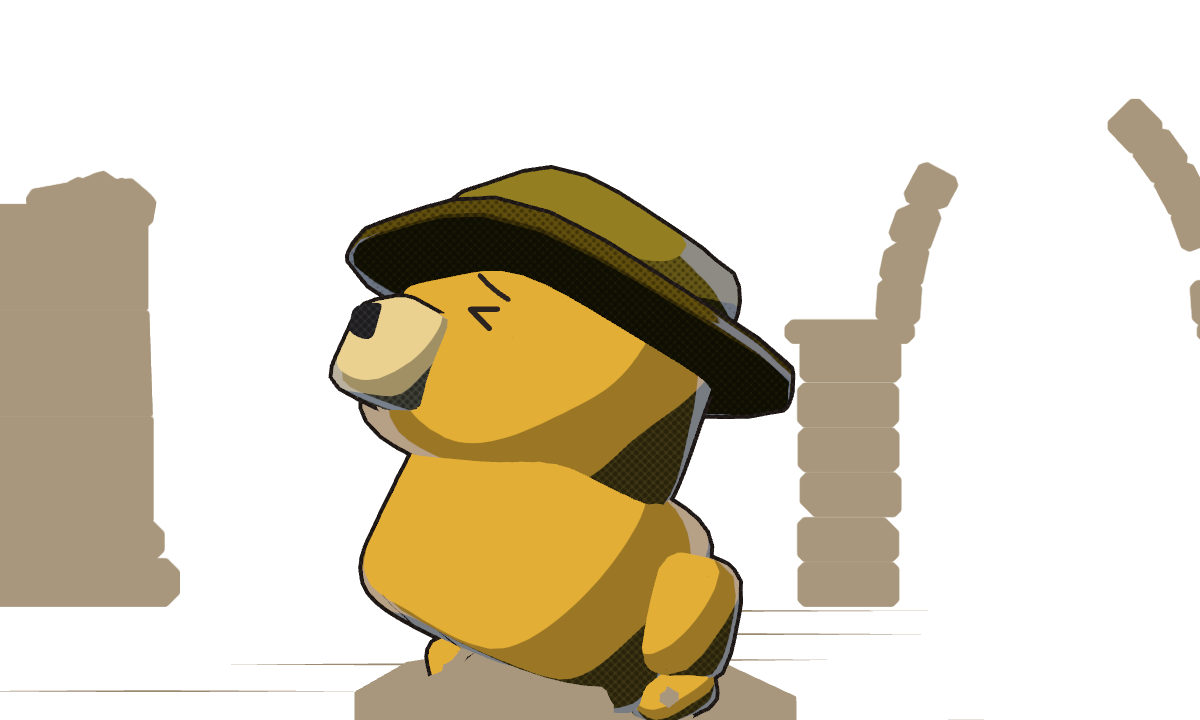
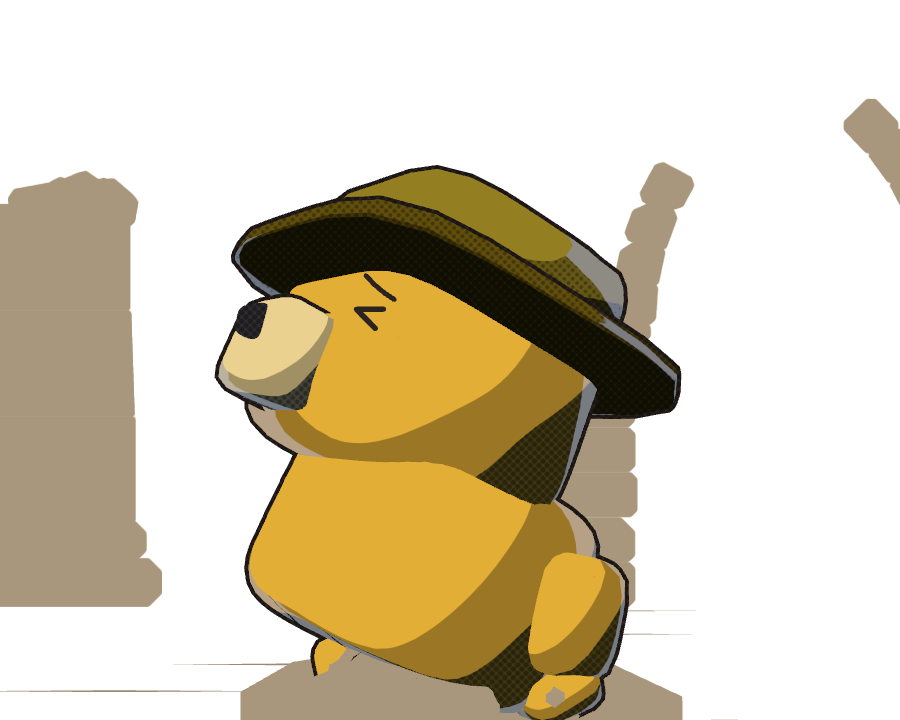
feat: show the courtyard well dry before heading to the alley
- page 4 gains a panel: from above and behind, the hero leans into the courtyard well and finds no water
- the alley-well panel moves to p4-4
- p4-1, p4-2 and p4-4 reshot at the four-panel page sizes
- STORY.md scene two now says why the hero skips the courtyard well

diff --git a/tools/comic/shots.js b/tools/comic/shots.js
@@ -335,21 +335,23 @@ export const SHOTS = [
   /* ── 第 4 頁　中庭・戰後 ─────────────────────────────────────── */
   {
     // 殭屍王倒下，靈魂從身上浮出來：中景，殭屍王側著趴平（頭盔蓋住了臉），一顆發光的狗頭從牠背上升起來。
-    id: 'p4-1', size: [860, 720], ink: 3.5,
+    id: 'p4-1', size: [1800, 620], ink: 3.5,
     horizon: 0.62,
     bg: [
-      { piece: 'gateway', span: 5, rise: 3.6, h: 6.4, side: 5, x: 0.5, y: 0.63, size: 0.36 },
-      { piece: 'column', r: 0.46, h: 5.2, broken: 0.6, seed: 4, x: 0.08, y: 0.64, size: 0.2 },
-      { piece: 'column', r: 0.46, h: 5.2, seed: 5, x: 0.93, y: 0.64, size: 0.44 },
+      { piece: 'gateway', span: 5, rise: 3.6, h: 6.4, side: 5, x: 0.5, y: 0.63, size: 0.46 },
+      { piece: 'column', r: 0.46, h: 5.2, broken: 0.6, seed: 4, x: 0.06, y: 0.64, size: 0.24 },
+      { piece: 'column', r: 0.46, h: 5.2, broken: 0.35, seed: 3, x: 0.2, y: 0.64, size: 0.36 },
+      { piece: 'column', r: 0.46, h: 5.2, broken: 0.7, seed: 6, x: 0.8, y: 0.64, size: 0.2 },
+      { piece: 'column', r: 0.46, h: 5.2, seed: 5, x: 0.94, y: 0.64, size: 0.54 },
     ],
     cast: [{ who: 'boss', at: [0, 0], yaw: 2.0, move: { ...FLOP, headTilt: 0.35 } }],
     souls: [{ at: [-0.3, 2.6, -0.2], yaw: 0.6, scale: 1.3 }],
-    cam: { pos: [3.2, 1.1, 5.6], look: [0.0, 1.35, 0], fov: 42 },
+    cam: { pos: [3.2, 1.1, 5.6], look: [0.0, 1.35, 0], fov: 33 },
   },
   {
     // 好渴……：近景。主角坐在一根斷得很低的柱子上，累得眼睛擠成一條、喘氣。三分之四側拍，正面的話
     // 表情會畫到吻部上。
-    id: 'p4-2', size: [1200, 720], ink: 4,
+    id: 'p4-2', size: [900, 720], ink: 4,
     horizon: 0.82,
     bg: [
       { piece: 'arcade', bays: 1, span: 3.1, pier: 0.95, legH: 2.6, depth: 1.0, ruin: 0.3, seed: 9, x: 0.88, y: 0.84, size: 0.7 },
@@ -361,18 +363,27 @@ export const SHOTS = [
     light: [4, 7, 5],
   },
   {
+    // 沒有水……：從斜上方、主角背後俯視。主角趴上中庭那口井（blocks.js 的中庭也有一口）的井圈、頭探進井口
+    // 往下看。井口不放那片黑（mouth: false），留紙色——裡面什麼都沒有。
+    id: 'p4-3', size: [1150, 720], ink: 4,
+    props: [{ piece: 'well', r: 1.1, seed: 2, mouth: false, at: [0, 0] }],
+    cast: [{ who: 'hero', at: [0, 1.05], y: 0.7, yaw: Math.PI, move: { pitch: 0.55, headPitch: 0.55, drop: 0.12, front: -0.9, hind: 0.6, legs: 0.8, tailPitch: 0.3, w: 1 }, shadow: false }],
+    cam: { pos: [1.3, 3.6, 3.1], look: [0, 0, -0.2], fov: 36 },
+    light: [3, 8, 4],
+  },
+  {
     // 窄巷有井：過肩。主角的後腦勺與肩在右下，往西拱洞看出去——拱洞框住遠遠的窄巷，兩排房子的盡頭
     // 是小廣場上的那口井。
-    id: 'p4-3', size: [1200, 720], ink: 3.5,
+    id: 'p4-4', size: [1800, 720], ink: 3.5,
     horizon: 0.6,
     bg: [
-      { piece: 'house', W: 4.6, D: 4, e: 5.4, seed: 3, x: 0.35, y: 0.6, size: 0.3 },
-      { piece: 'house', W: 4.6, D: 4, e: 4.8, seed: 5, x: 0.62, y: 0.6, size: 0.27 },
-      { piece: 'well', r: 1.1, seed: 2, x: 0.485, y: 0.62, size: 0.1 },
+      { piece: 'house', W: 4.6, D: 4, e: 5.4, seed: 3, x: 0.393, y: 0.6, size: 0.3 },
+      { piece: 'house', W: 4.6, D: 4, e: 4.8, seed: 5, x: 0.573, y: 0.6, size: 0.27 },
+      { piece: 'well', r: 1.1, seed: 2, x: 0.483, y: 0.62, size: 0.1 },
       { piece: 'gateway', span: 3.1, rise: 2.6, h: 5.6, side: 6, x: 0.48, y: 1.25, size: 1.6 },
     ],
     cast: [{ who: 'hero', at: [0, 0], yaw: Math.PI + 0.35, move: { headPitch: -0.05, headYaw: 0.15, w: 1 }, face: 'hope', eyes: { lift: 0.2 } }],
-    cam: { focus: 'hero', yaw: 0.25, pitch: 0.05, dist: 1.6, fov: 40, frame: [0.3, 0.32] },
+    cam: { focus: 'hero', yaw: 0.25, pitch: 0.05, dist: 1.6, fov: 40, frame: [0.2, 0.32] },
   },
 
   /* ── 第 5 頁　窄巷・開場 ─────────────────────────────────────── */

diff --git a/public/src/comic.js b/public/src/comic.js
@@ -43,7 +43,8 @@ export const PAGES = [
   { title: '中庭', panels: [
     { note: '殭屍王倒下，靈魂從身上浮出來', src: 'comic/p4-1.png', focus: '50% 45%' },
     { note: '主角坐在斷柱上，舌頭伸出來喘', say: '好渴……', src: 'comic/p4-2.png', focus: '45% 45%' },
-    { note: '從西拱洞望出去，窄巷盡頭的井', say: '窄巷有井。', src: 'comic/p4-3.png', focus: '55% 55%' },
+    { note: '從斜上方、主角背後俯視：主角趴上中庭的井圈，頭探進井口，井裡沒有水', say: '沒有水……', src: 'comic/p4-3.png', focus: '45% 40%' },
+    { note: '從西拱洞望出去，窄巷盡頭的井', say: '窄巷有井。', src: 'comic/p4-4.png', focus: '50% 55%' },
   ] },
   { title: '城鎮窄巷', panels: [
     { note: '兩側木構連棟屋夾著窄巷，盡頭小廣場上的井', say: '找到了。', src: 'comic/p5-1.png', focus: '50% 60%' },

diff --git a/STORY.md b/STORY.md
@@ -59,7 +59,7 @@
 
 ## 第二場　中庭
 
-中庭也沒有人，只等到一隻殭屍王；打完主角口渴，想起窄巷有一口井。
+中庭也沒有人，只等到一隻殭屍王；打完主角口渴，中庭那口井卻是乾的，才想起窄巷還有一口井。
 
 ### 第 3 頁　開場（走進中庭）
 
@@ -77,7 +77,8 @@
 | --- | --- | --- | --- | --- |
 | 1 | 殭屍王倒下，靈魂從身上浮出來 | 中景 | — | 殭屍王、靈魂（發光狗頭） |
 | 2 | 主角坐在斷柱上，舌頭伸出來喘 | 近景 | 心聲：好渴…… | 斷柱 |
-| 3 | 從西拱洞望出去，窄巷盡頭小廣場上的井 | 過肩，井在拱洞中間 | 心聲：窄巷有井。 | 中庭西拱洞、窄巷、井 |
+| 3 | 主角趴上中庭的井圈，頭探進井口往下看：井是乾的 | 從斜上方、主角背後俯視 | 心聲：沒有水…… | 中庭的井 |
+| 4 | 從西拱洞望出去，窄巷盡頭小廣場上的井 | 過肩，井在拱洞中間 | 心聲：窄巷有井。 | 中庭西拱洞、窄巷、井 |
 
 ---
 
